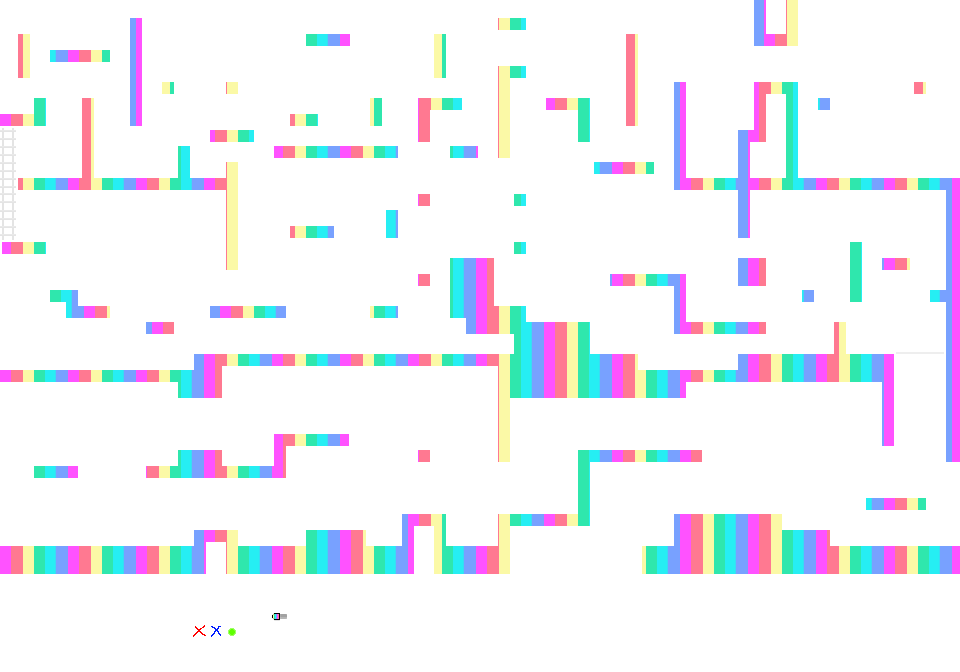
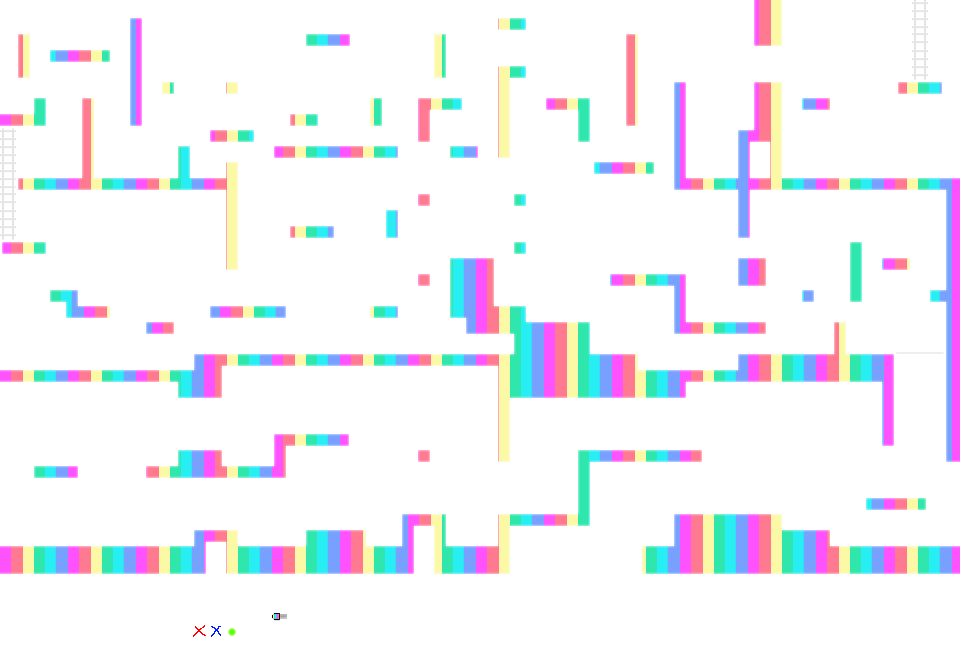
update map

diff --git a/assets/scripts/scenes/Dream01.js b/assets/scripts/scenes/Dream01.js
@@ -56,7 +56,8 @@ export class Dream01 extends Level {
 		this.loadPills(map);
 
 		this.player = new Player(this, this.spawnCoords.x, this.spawnCoords.y);
-		this.ladder = new Ladder(this, 0, 128);
+		this.ladder1 = new Ladder(this, 0, 128);
+		this.ladder2 = new Ladder(this, 912, -32);
 
 		this.physics.world.setBounds(0, 0, this.layer.width, this.layer.height)
 		this.player.setCollideWorldBounds(true);
@@ -69,8 +70,10 @@ export class Dream01 extends Level {
 		this.physics.add.collider(this.player, this.platforms);
 		this.physics.add.collider(this.player, this.spikes, this.killPlayer, null, this, this.player);
 		this.physics.add.overlap(this.player, this.orbs, this.handleOrbs, this.boingOrb, this, this.player);
-		this.physics.add.overlap(this.player, this.ladder, this.handleLadders, null, this.player);
 		this.physics.add.overlap(this.player, this.pills, this.handlePills, null, this.player);
+
+		this.physics.add.overlap(this.player, this.ladder1, this.handleLadders, null, this.player);
+		this.physics.add.overlap(this.player, this.ladder2, this.handleLadders, null, this.player);
 
 		this.cameras.main.setZoom(2);
 		this.cameras.main.pan(this.cameraCoords.x, this.cameraCoords.y, 0)
@@ -231,6 +234,13 @@ export class Dream01 extends Level {
 					SCREEN_HEIGHT * 1.5 + TILE_WIDTH * 2,
 					36, 232
 				);
+			}
+			if (this.player.x > 830){
+				this.spawnCoords = { x: 816, y: 88 };
+
+				if (this.player.y < 16){
+					console.log("gg");
+				}
 			}
 		}
 
